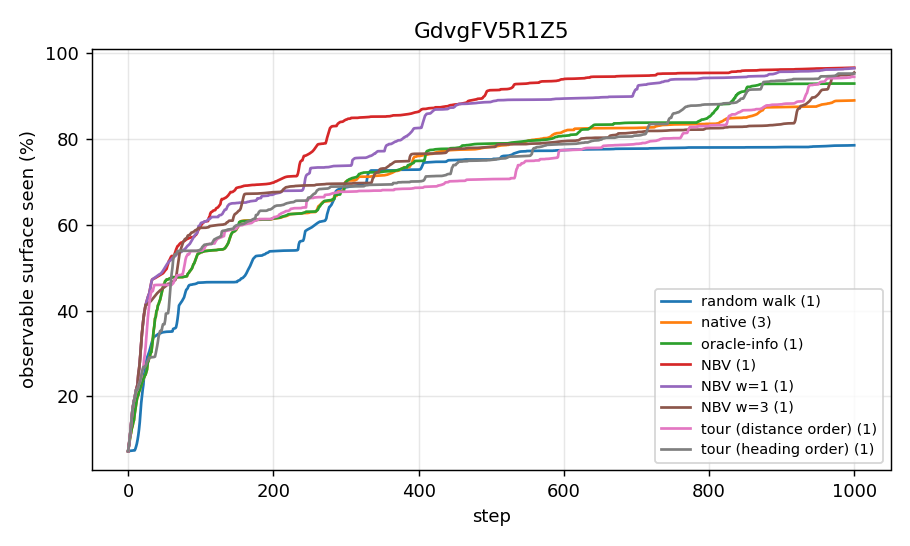
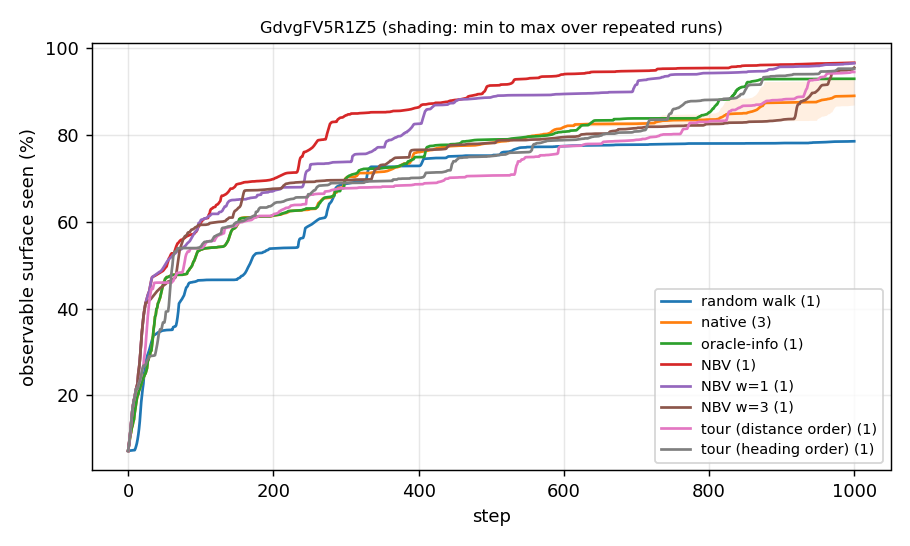
Oracle log: uncertainty shading in coverage plots, explain oracle-info vs tour vs NBV

diff --git a/scripts/oracle/compare.py b/scripts/oracle/compare.py
@@ -85,18 +85,23 @@ def table(rows:dict, steps:int, order:list) -> str:
             lines.append(f'| {label} | {len(rows[label])} | ' + ' | '.join(summarise(rows[label], steps)) + ' |')
     return '\n'.join(lines)
 
-def plot(curves:dict, title:str, path:str, steps:int, order:list) -> None:
+def plot(curves:dict, title:str, path:str, steps:int, order:list, band:str) -> None:
+    # band: 'range' shades min to max over repeated runs (nothing for a single run), 'std' shades +-1 standard deviation (here: between scenes)
     import matplotlib
     matplotlib.use('Agg')
     import matplotlib.pyplot as plt
     figure, axis = plt.subplots(figsize=(7, 4.2))
     for label in order:
         if label in curves:
-            mean = np.mean([run['curve'][:steps + 1] for run in curves[label]], axis=0)
-            axis.plot(np.arange(len(mean)), mean, label=f'{label} ({len(curves[label])})')
+            stack = np.array([run['curve'][:steps + 1] for run in curves[label]])
+            mean = stack.mean(axis=0)
+            line, = axis.plot(np.arange(len(mean)), mean, label=f'{label} ({len(stack)})')
+            if len(stack) > 1:
+                low, high = (stack.min(axis=0), stack.max(axis=0)) if band == 'range' else (mean - stack.std(axis=0), mean + stack.std(axis=0))
+                axis.fill_between(np.arange(len(mean)), low, high, color=line.get_color(), alpha=0.12, linewidth=0)
     axis.set_xlabel('step')
     axis.set_ylabel('observable surface seen (%)')
-    axis.set_title(title)
+    axis.set_title(title + (' (shading: min to max over repeated runs)' if band == 'range' else ' (shading: ±1 s.d. between scenes)'), fontsize=9)
     axis.grid(alpha=0.3)
     axis.legend(fontsize=8)
     figure.tight_layout()
@@ -123,7 +128,7 @@ if __name__ == '__main__':
         sections.append(f'### {scene}\n\n' + table(groups[scene], args.steps, all_labels))
         if args.plots_dir:
             os.makedirs(args.plots_dir, exist_ok=True)
-            plot(groups[scene], scene, os.path.join(args.plots_dir, f'coverage_{scene}.png'), args.steps, all_labels)
+            plot(groups[scene], scene, os.path.join(args.plots_dir, f'coverage_{scene}.png'), args.steps, all_labels, 'range')
         for label, runs in groups[scene].items():
             # NOTE: a scene counts once per method (mean over its repeats), so scenes with more repeats do not dominate the average
             merged = {key: float(np.nanmean([run.get(key, np.nan) for run in runs])) for key in runs[0] if key not in ('curve', 'run', 'steps')}
@@ -131,7 +136,9 @@ if __name__ == '__main__':
             per_label[label].append(merged)
     sections.append('### Mean over scenes\n\n' + table(per_label, args.steps, all_labels))
     if args.plots_dir:
-        plot(per_label, 'mean over scenes', os.path.join(args.plots_dir, 'coverage_all_scenes.png'), args.steps, all_labels)
+        plot(per_label, 'mean over scenes', os.path.join(args.plots_dir, 'coverage_all_scenes.png'), args.steps, all_labels, 'std')
+        core = [label for label in ('random walk', 'native', 'oracle-info', 'tour (heading order)', 'NBV') if label in per_label]
+        plot(per_label, 'mean over scenes', os.path.join(args.plots_dir, 'coverage_all_scenes_core.png'), args.steps, core, 'std')
     text = '\n\n'.join(sections) + '\n'
     if args.out:
         with open(args.out, 'w') as f:

diff --git a/experiments/2026-10-14_oracle_baselines/README.md b/experiments/2026-10-14_oracle_baselines/README.md
@@ -33,7 +33,11 @@ Only the *viewpoint selection* is changed; the SplaTAM mapper stays online and n
 | NBV w=1 | 43.4 | 66.5 | 82.0 | 94.2 | 73.3 | 469 ± 187 | 24.3 | 79.0 | 20.6 | 19.9 | 0.692 | 0.331 |
 | NBV w=3 | 40.1 | 61.3 | 69.6 | 91.7 | 65.5 | 678 ± 279 | 26.2 | 76.7 | 21.2 | 20.7 | 0.699 | 0.334 |
 
-![coverage, mean over scenes](coverage_all_scenes.jpg)
+![coverage, mean over scenes, core methods](coverage_all_scenes_core.jpg)
+
+Shading is ±1 s.d. **between the four scenes**, so it is mostly scene difficulty (pLe4wQe7qrG and YmJkqBEsHnH are hard for every method), not noise of a method; the bands of different methods overlap for that reason even where the ranking is the same on every scene (it is for NBV vs the rest at AUC). The per-scene plots (`coverage_<scene>.jpg`) shade min to max over repeated runs, which exists only for native (2 to 3 seeds): that band is the run-to-run noise to compare the other single-run lines against. All eight methods: `coverage_all_scenes.jpg`.
+
+![coverage, mean over scenes, all methods](coverage_all_scenes.jpg)
 
 Per scene (coverage at 1000 steps / AUC; native = mean of 2 to 3 seeds ± s.d., the others single runs):
 
@@ -51,6 +55,30 @@ Per scene (coverage at 1000 steps / AUC; native = mean of 2 to 3 seeds ± s.d., 
 Per-scene curves: `coverage_<scene>.jpg`. Full per-scene tables (all columns incl. SSIM/LPIPS, steps to 80/90 %): `docs/oracle_results.md`.
 
 Trajectory image quality per scene (PSNR, native = seed mean): gZ6f7yhEvPG 17.6 native / 17.8 oracle-info / 17.7 tour / 17.1 NBV; GdvgFV5R1Z5 24.5 / 24.2 / 24.7 / 23.6; pLe4wQe7qrG 26.1 / 25.6 / 25.1 / 24.9; YmJkqBEsHnH 15.7 / 19.7 / 20.7 / 14.1.
+
+## How oracle-info, the tour and NBV differ
+
+All three get the same GT mesh and are scored the same way; they differ in **what they use the GT for**, **where they may go**, and **whether they react while driving**.
+
+| | oracle-info (Tier 2) | tour | NBV (Tier 3) |
+|---|---|---|---|
+| What is replaced by GT | Only the answer to "what is still unseen from this node?": the mapper's rendered look-around opacity/depth is swapped for GT-mesh raycasts against the observed-voxel set | Everything: surface to cover, navigable space, and the order of visits | Surface still unseen, navigable space; the choice of the next view |
+| Candidate places | The native planner's own: Voronoi-graph nodes of the top-down free map **built online from the Gaussians**, so only places the mapper already knows to be free | Precomputed grid of positions x yaws x pitches (-30/0/30°) on the GT navmesh, including places not yet mapped | The same kind of free candidate poses on the GT navmesh, re-scored from the current pose |
+| How a target is chosen | Native machinery: invisibility score per node, hierarchical subregion planner, rotation selection by largest unmapped cluster | Once, offline: greedy set cover (fewest views that see the surface), insertion by new surface per added action under the 1000-step budget, 2-opt on the route; the order is fixed in advance | Every time: the view with the highest (new surface, capped at what the remaining budget can reach) / (walking + turns + tilts); myopic greedy |
+| Feedback | Closed loop on the **mapper's** state: re-plans each step from the growing map | **None** (open loop): writes `actions.txt`, replayed blindly; it never reacts to what the sensor or mapper actually got | Closed loop on the **oracle's** observed set while planning (replans from where it is), then the finished actions are replayed; it does not use the mapper either |
+| Travel | Native: can only go where the map is known | Geodesic nearest-neighbour + 2-opt (distance order) or heading-aware (fewer turns) | Greedy geodesic follower to each chosen view |
+| Cost to run | A 360° look-around raycast per node (10 to 40 ms), inside the run | About 15 s offline per scene | About 15 s offline per scene for 1000 steps |
+
+In one sentence each:
+- **oracle-info** is the native planner with perfect eyes: it knows exactly which surface is unseen, but it still has to discover the free space itself and picks among the nodes the mapper has built, so frontier-limited behaviour remains.
+- **tour** is a global plan with perfect knowledge but no replanning: efficient in path length (14.8 m) and good at the end of the budget, but it visits places in route order, so early coverage is not prioritised (curves cross native's), and it cannot recover if execution drifts from the plan.
+- **NBV** is a local, greedy plan with perfect knowledge and perfect replanning: it always takes the best next gain per action, which front-loads coverage (80 % in about 400 steps), at the price of more walking (29.4 m) and no global route optimality.
+
+What the results say about the contrast (single runs apart from native, so indicative):
+- oracle-info → NBV isolates the value of **knowing the free space and choosing free poses** (not just knowing what is unseen): AUC 62 to 77, 89 % to 95 % final coverage. oracle-info is within native noise on two scenes, so the unseen-geometry knowledge alone is a small part of the gain.
+- tour → NBV isolates **replanning against greedy gain per action versus a fixed global route**: the tour matches NBV only at the end (92.6 % vs 95.3 % at 1000 steps) while AUC is 64.5 vs 77.2.
+- oracle-info vs tour: the tour has a shorter path and better final coverage, oracle-info has the better early-mid curve on some scenes and uses the real mapper in the loop. Not separated by this data: the two differ in several ways at once (candidates, route optimisation, feedback), and there is one run per scene.
+- Caveat: these are three bundles of differences, not single-factor ablations. A cleaner test (e.g. oracle-info with GT navigation, or NBV restricted to mapper-known free space) was not run (`planner.oracle.navigation: gt_navmesh` is still open in `docs/oracle_baselines.md`).
 
 ## Reading
 - **Knowing the scene helps exploration, and how it is used matters more than whether it is used.** Tier 3 (NBV: free poses, GT navmesh, myopic closed loop) is best on every scene: AUC 77 against 59 for native, 80 % coverage in about 400 steps against about 625, 95 % at 1000 steps against 83 %. It also walks more (29 m against 22 m).
